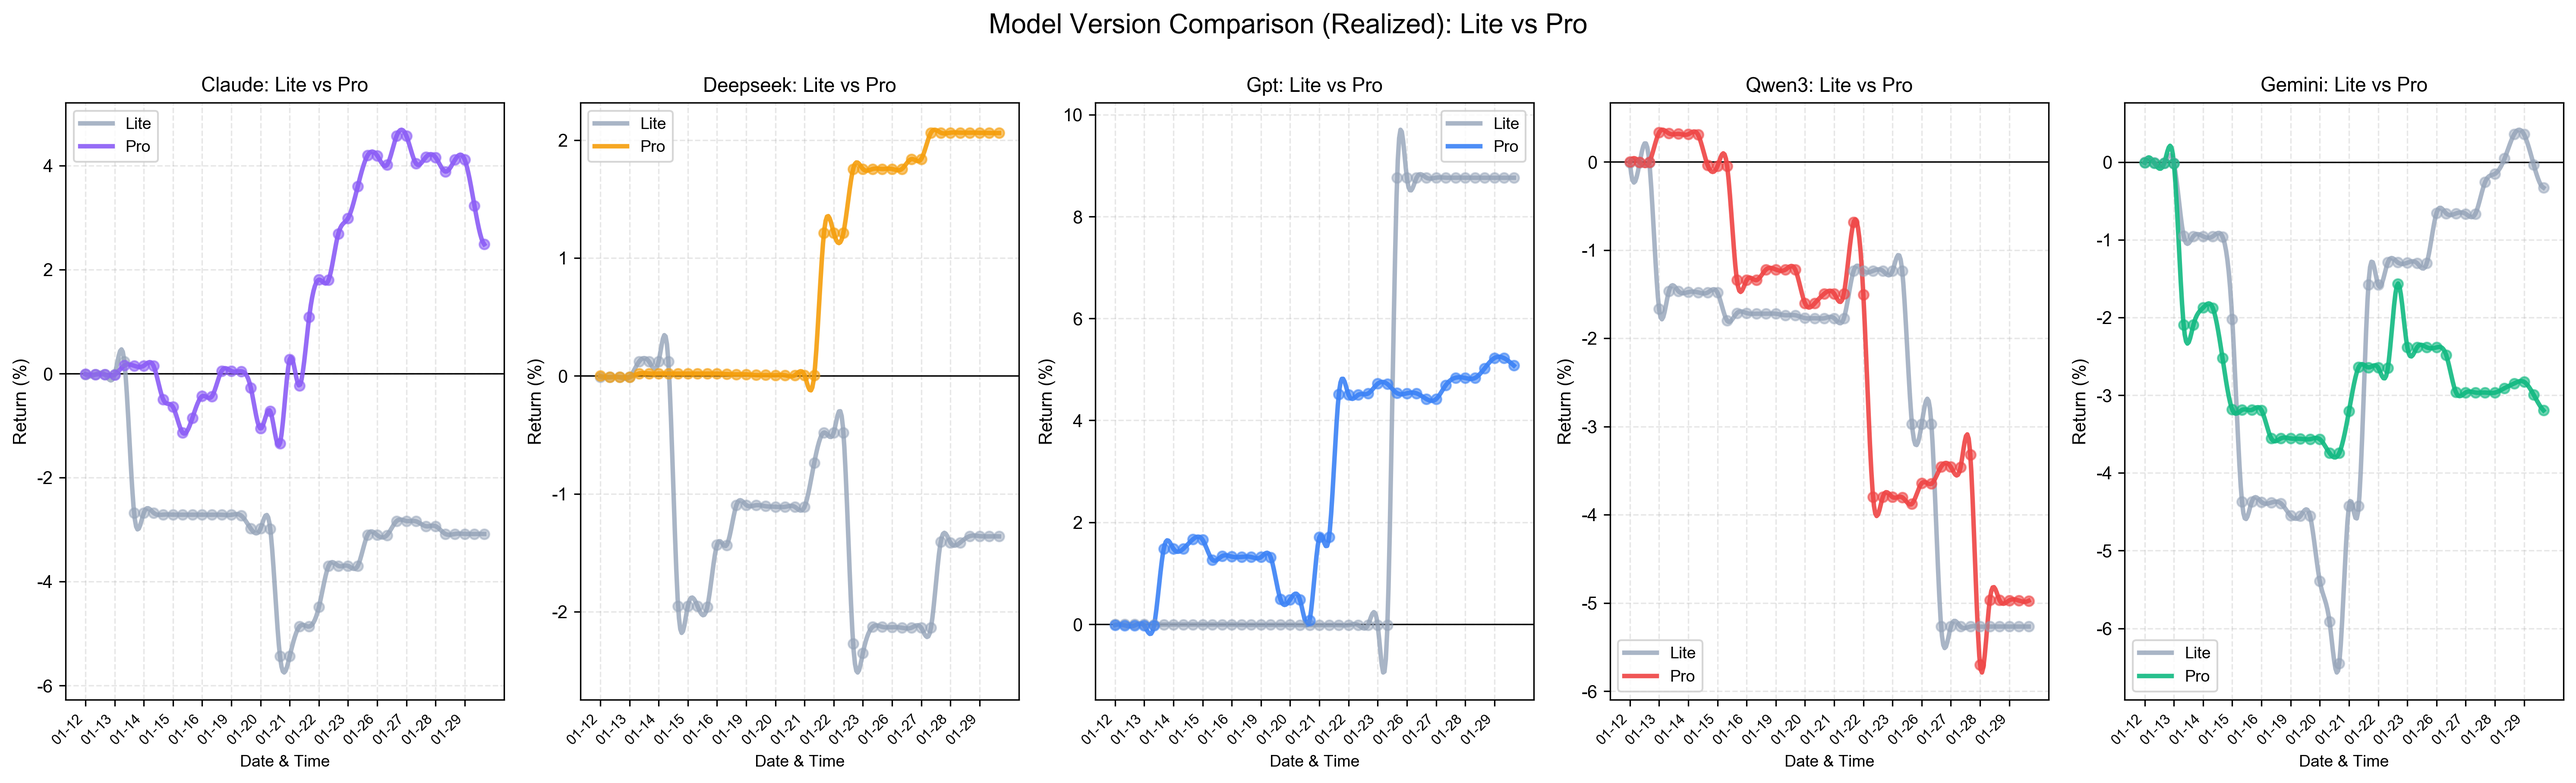
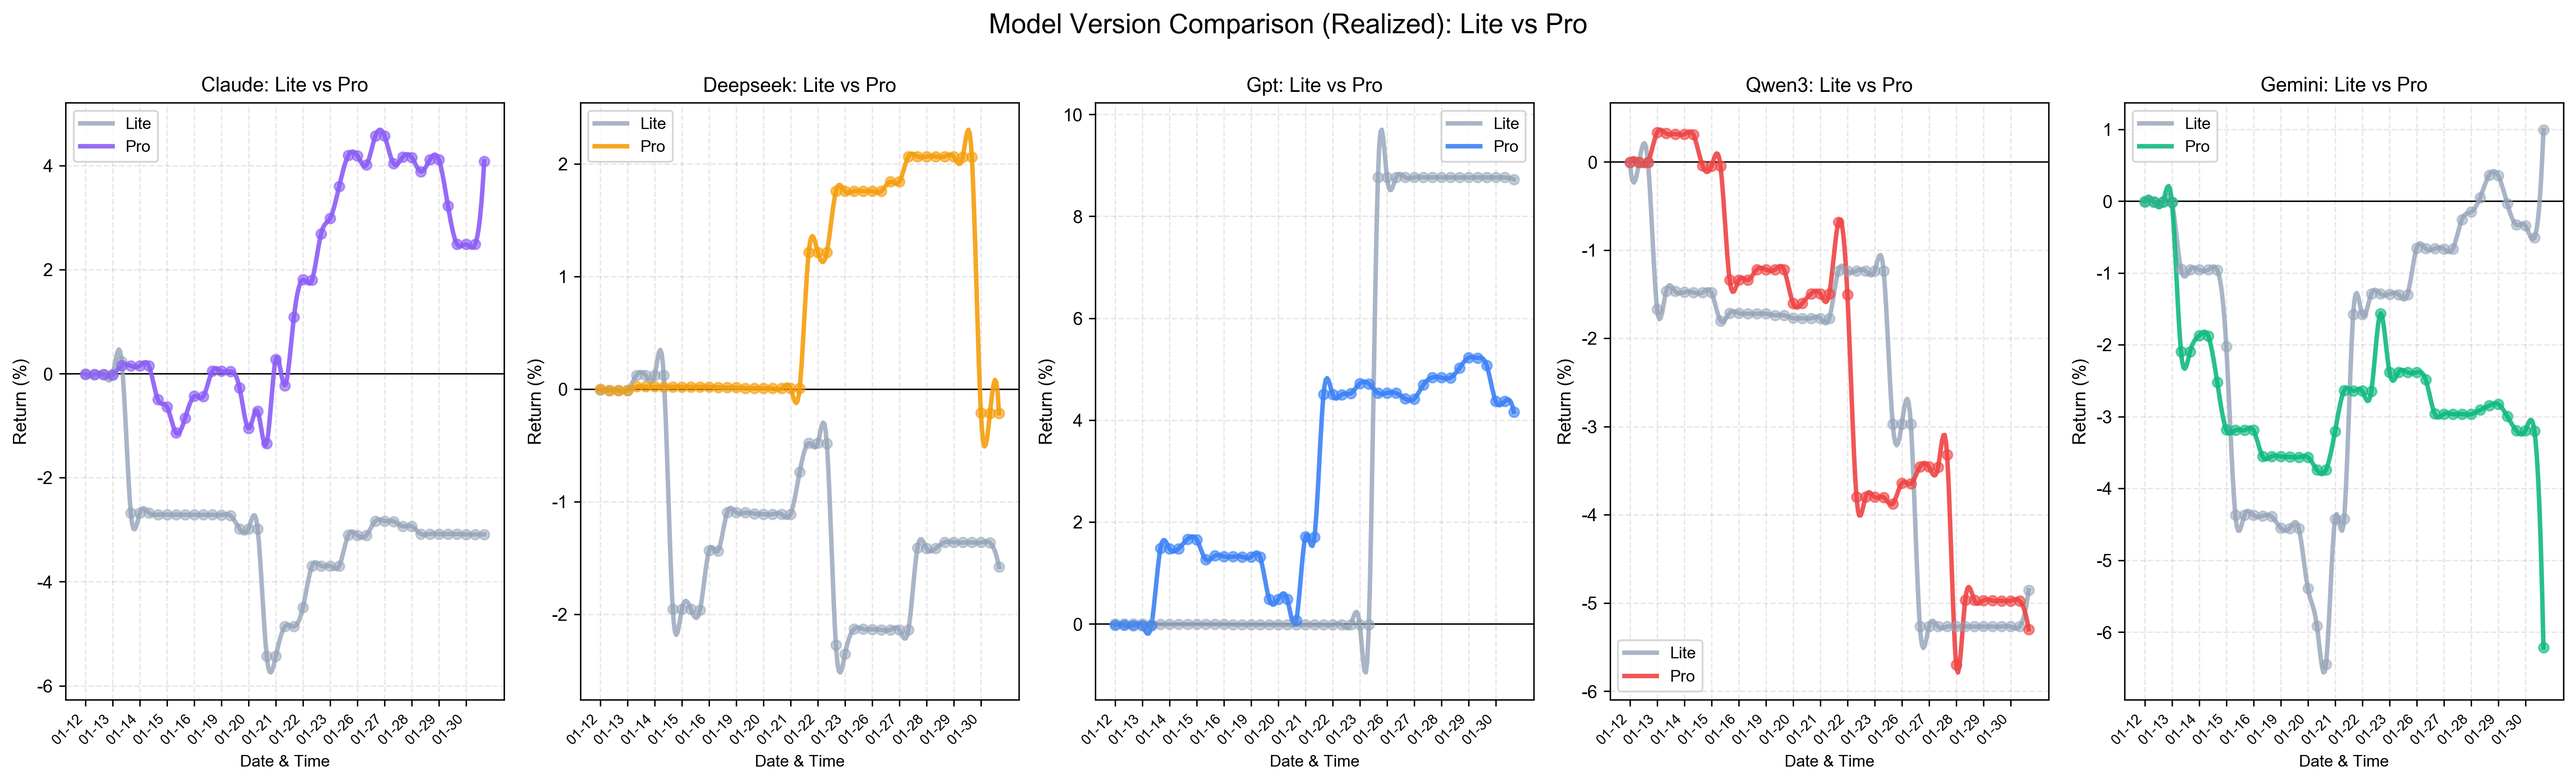
1.30

diff --git a/experiments/visualizations/performance_summary.md b/experiments/visualizations/performance_summary.md
@@ -2,8 +2,8 @@
 
 | Model | Latest Return | Max Return | Min Return | Volatility |
 |-------|---------------|------------|------------|------------|
-| Claude Haiku 4.5 | -3.08% | 0.23% | -5.43% | 1.29% |
-| DeepSeek Chat | -1.36% | 0.12% | -2.35% | 0.78% |
-| Gemini 2.5 Flash | -0.33% | 0.36% | -6.45% | 2.00% |
-| GPT-5.1 | 8.76% | 8.76% | -0.02% | 4.06% |
-| Qwen3-235b | -5.27% | -0.01% | -5.27% | 1.69% |
+| Claude Haiku 4.5 | -3.09% | 0.23% | -5.43% | 1.24% |
+| DeepSeek Chat | -1.58% | 0.12% | -2.35% | 0.76% |
+| Gemini 2.5 Flash | 0.99% | 0.99% | -6.45% | 2.00% |
+| GPT-5.1 | 8.72% | 8.76% | -0.02% | 4.20% |
+| Qwen3-235b | -4.85% | -0.01% | -5.27% | 1.76% |

diff --git a/README.md b/README.md
@@ -22,9 +22,9 @@
 
 ## 📊 Performance Comparison Results
 
-**Updated: January 29, 2026**
+**Updated: January 30, 2026**
 
-This section showcases comprehensive performance comparisons across Lite and Pro model versions, including benchmark analyses and portfolio dynamics during the trading period (January 12-29, 2026).
+This section showcases comprehensive performance comparisons across Lite and Pro model versions, including benchmark analyses and portfolio dynamics during the trading period (January 12-30, 2026).
 
 ### Dual Model Version Strategy
 
